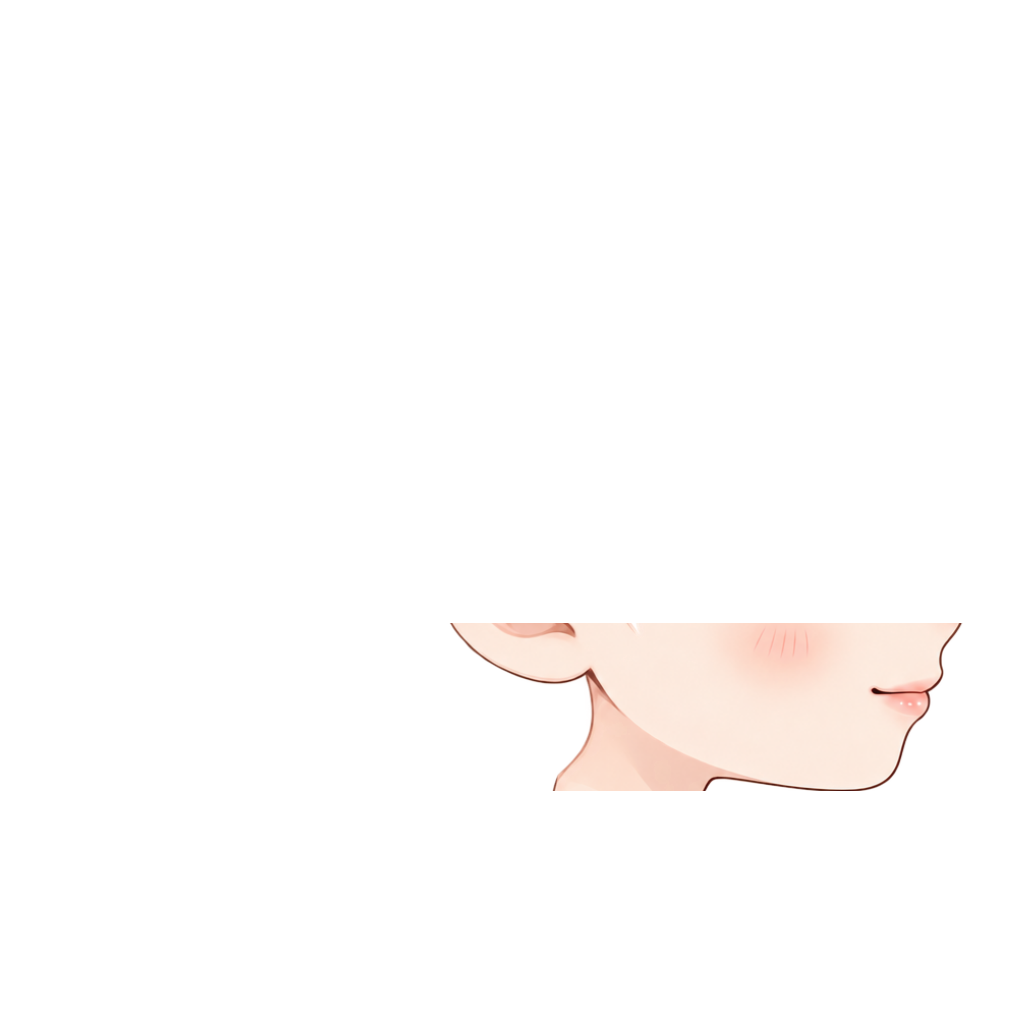
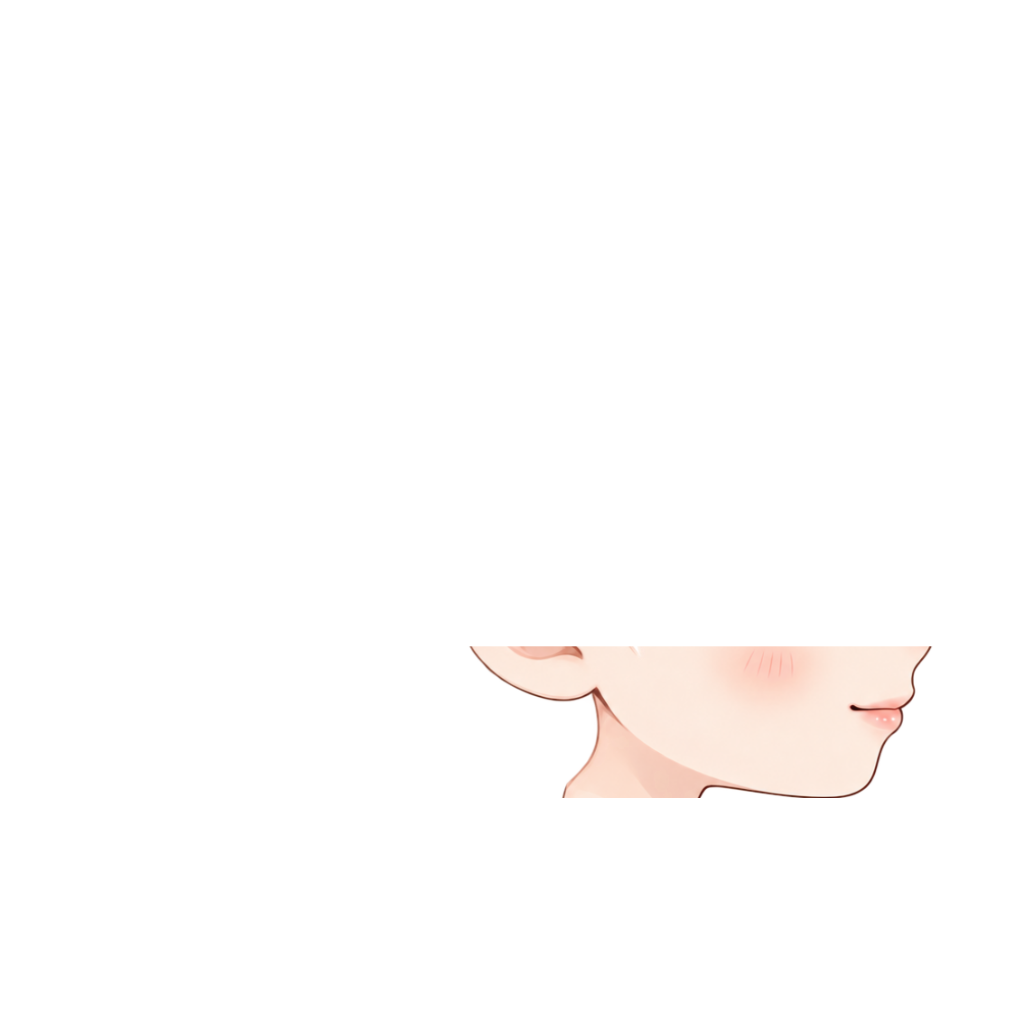
fix: 기본 여자 머리 그림을 줄여 화면에서 남자와 같은 얼굴 크기로 맞춘다 [S15P31A207-306]
여자 몸체는 머리 그림을 남자보다 약 10.8% 크게 그린다(화면 실측: 남자 0.372, 여자 0.412 px/캔버스px).
여자 머리 12장을 목 끝 기준으로 0.903배 줄이고, 생성 머리 목표(HeadTarget)와 얼굴 원 그림 배율을 그에 맞춘다.
측면 목 맞춤 구간(791~863)은 목 길이 72 전제를 지켜 그대로 둔다.

Changed region(s): [[0.4375, 0.5938, 0.9375, 0.7812]]

diff --git a/android/core/avatar/src/test/kotlin/com/a207/runkk/app/core/avatar/FemaleBuiltInFaceTest.kt b/android/core/avatar/src/test/kotlin/com/a207/runkk/app/core/avatar/FemaleBuiltInFaceTest.kt
@@ -1,6 +1,7 @@
 package com.a207.runkk.app.core.avatar
 
 import android.graphics.BitmapFactory
+import kotlin.math.abs
 import kotlin.test.assertEquals
 import kotlin.test.assertTrue
 import org.junit.Test
@@ -9,59 +10,84 @@ import org.robolectric.RobolectricTestRunner
 import org.robolectric.RuntimeEnvironment
 import org.robolectric.annotation.GraphicsMode
 
-/** S15P31A207-306: 기본 여자 얼굴은 남자 원본을 목 끝에 맞춰 평행 이동한다. */
+/**
+ * S15P31A207-306: 기본 여자 얼굴은 남자 얼굴 그림을 목 끝에 맞춰 옮긴 뒤 [SCALE]배로 줄인 것이다. 여자 몸체가 머리 그림을 남자보다
+ * 약 10.8% 크게 그리므로, 그림을 그만큼 줄여야 화면에서 남녀 얼굴 크기가 같다.
+ */
 @RunWith(RobolectricTestRunner::class)
 @GraphicsMode(GraphicsMode.Mode.NATIVE)
 class FemaleBuiltInFaceTest {
     @Test
-    fun `정면 얼굴과 눈과 볼은 같은 이동만 적용한다`() {
-        for (name in listOf("face", "eyes_open", "eyes_half", "eyes_closed", "front_fullness_1", "front_fullness_2")) {
-            assertTranslated(name, dx = 14, dy = -67, fillAbove = if (name == "face") 516 else 0)
+    fun `정면 눈과 볼은 남자 그림의 0점903배다`() {
+        for (name in listOf("eyes_open", "eyes_half", "eyes_closed", "front_fullness_1", "front_fullness_2")) {
+            assertScaled(name)
         }
     }
 
     @Test
-    fun `측면 얼굴과 눈과 볼도 목 중심을 맞춘 같은 이동만 적용한다`() {
-        for (name in listOf("side_face", "side_eyes", "side_fullness_1", "side_fullness_2")) {
-            assertTranslated(name, dx = 40, dy = -67, fillAbove = if (name == "side_face") 515 else 0)
+    fun `측면 눈과 볼도 같은 배율이다`() {
+        for (name in listOf("side_eyes", "side_fullness_1", "side_fullness_2")) {
+            assertScaled(name)
         }
+    }
+
+    @Test
+    fun `목 끝과 목 맞춤값은 몸체 자리 그대로다`() {
+        // 목 맞춤은 목 길이 72를 전제로 한다(SideNeckRegistrationTest). 그림을 줄여도 구간은 그대로 둔다.
         assertEquals(791f, SideNeckRegistration.FEMALE.startY)
         assertEquals(863f, SideNeckRegistration.FEMALE.endY)
         assertEquals(651f, SideNeckRegistration.FEMALE.centerX)
+        val front = bounds("female", "face")
+        val side = bounds("female", "side_face")
+        assertTrue(abs(front.bottom - 865) <= 3, "정면 목 끝 ${front.bottom}")
+        assertTrue(abs(side.bottom - 865) <= 3, "측면 목 끝 ${side.bottom}")
     }
 
-    private fun assertTranslated(name: String, dx: Int, dy: Int, fillAbove: Int) {
-        val male = pixels("male", name)
-        val female = pixels("female", name)
-        var differences = 0
-        var clipped = 0
-        for (y in 0 until 1024) {
-            for (x in 0 until 1024) {
-                val targetX = x + dx
-                val targetY = y + dy
-                val source = male[y * 1024 + x]
-                if (targetX !in 0 until 1024 || targetY !in 0 until 1024) {
-                    if (source ushr 24 > 0) clipped++
-                } else if (targetY >= fillAbove && source != female[targetY * 1024 + targetX]) {
-                    differences++
-                }
-            }
-        }
-        assertEquals(0, clipped, "$name 캔버스 밖 픽셀")
-        assertEquals(0, differences, "$name 평행 이동 외 변경 픽셀")
+    private fun assertScaled(name: String) {
+        val male = bounds("male", name)
+        val female = bounds("female", name)
+        val width = female.width.toFloat() / male.width
+        val height = female.height.toFloat() / male.height
+        assertTrue(abs(width - SCALE) < TOLERANCE, "$name 가로 배율 $width")
+        assertTrue(abs(height - SCALE) < TOLERANCE, "$name 세로 배율 $height")
     }
 
-    private fun pixels(gender: String, name: String): IntArray {
+    private class Bounds(val left: Int, val top: Int, val right: Int, val bottom: Int) {
+        val width get() = right - left + 1
+        val height get() = bottom - top + 1
+    }
+
+    /** 불투명도가 절반을 넘는 픽셀의 경계 상자. */
+    private fun bounds(gender: String, name: String): Bounds {
         val bitmap = RuntimeEnvironment.getApplication().assets.open("avatars/$gender/$name.png").use {
             checkNotNull(BitmapFactory.decodeStream(it))
         }
         try {
             assertEquals(1024, bitmap.width)
             assertEquals(1024, bitmap.height)
-            assertTrue(bitmap.hasAlpha())
-            return IntArray(1024 * 1024).also { bitmap.getPixels(it, 0, 1024, 0, 0, 1024, 1024) }
+            val pixels = IntArray(1024 * 1024).also { bitmap.getPixels(it, 0, 1024, 0, 0, 1024, 1024) }
+            var left = 1024
+            var top = 1024
+            var right = -1
+            var bottom = -1
+            for (index in pixels.indices) {
+                if (pixels[index] ushr 24 > 127) {
+                    val x = index % 1024
+                    val y = index / 1024
+                    if (x < left) left = x
+                    if (x > right) right = x
+                    if (y < top) top = y
+                    if (y > bottom) bottom = y
+                }
+            }
+            return Bounds(left, top, right, bottom)
         } finally {
             bitmap.recycle()
         }
+    }
+
+    private companion object {
+        const val SCALE = .903f
+        const val TOLERANCE = .02f
     }
 }

diff --git a/android/core/avatar/src/test/kotlin/com/a207/runkk/app/core/avatar/HeadPlacementTest.kt b/android/core/avatar/src/test/kotlin/com/a207/runkk/app/core/avatar/HeadPlacementTest.kt
@@ -12,9 +12,10 @@ import kotlin.test.assertTrue
 class HeadPlacementTest {
     @Test
     fun `여자 생성 머리 목표도 새 기본 머리의 정수리와 측면 턱에 맞춘다`() {
-        assertEquals(20f, HeadTarget.FEMALE_FRONT.crownY)
-        assertEquals(20f, HeadTarget.FEMALE_SIDE.crownY)
-        assertEquals(791f, HeadTarget.FEMALE_SIDE.chinY)
+        assertEquals(102f, HeadTarget.FEMALE_FRONT.crownY)
+        assertEquals(102f, HeadTarget.FEMALE_SIDE.crownY)
+        assertEquals(794f, HeadTarget.FEMALE_FRONT.chinY)
+        assertEquals(798f, HeadTarget.FEMALE_SIDE.chinY)
     }
 
     @Test

diff --git a/android/core/avatar/src/main/java/com/a207/runkk/app/core/avatar/HeadTarget.kt b/android/core/avatar/src/main/java/com/a207/runkk/app/core/avatar/HeadTarget.kt
@@ -5,9 +5,9 @@ package com.a207.runkk.app.core.avatar
  * 서버 분리·정합 오류를 이 값이나 파츠별 오프셋으로 덮지 않는다(온보딩 4절).
  */
 internal enum class HeadTarget(val centerX: Float, val chinY: Float, val crownY: Float) {
-    FEMALE_FRONT(534f, 787f, 20f),
+    FEMALE_FRONT(534f, 794f, 102f),
     MALE_FRONT(520f, 854f, 59f),
-    FEMALE_SIDE(651f, 791f, 20f),
+    FEMALE_SIDE(651f, 798f, 102f),
     MALE_SIDE(582f, 858f, 60f);
 
     companion object {

diff --git a/android/core/ui/tools/default-head/make_default_heads.py b/android/core/ui/tools/default-head/make_default_heads.py
@@ -27,7 +27,9 @@ CROWN_Y, CHIN_Y, CENTER_X = -0.05, 0.86, 0.5
 CROWN_MIN, CROWN_MAX = -0.05, 0.08
 NECK_END_RATIO = 0.97
 # 내장 머리의 턱·목 가운데 x(core/avatar HeadTarget 정면 값, 내장 머리가 그 자리에 맞춰져 있다).
-CHIN = {"male": (520, 854), "female": (534, 787)}
+CHIN = {"male": (520, 854), "female": (534, 794)}
+# 여자 내장 머리는 몸체가 크게 그리는 만큼(약 10.8%) 줄여 둔 그림이다(S15P31A207-306). 얼굴 원에서는 남자와 같은 얼굴 크기로 되돌린다.
+ASSET_SCALE = {"male": 1.0, "female": 0.903}
 
 
 def crown_of(hair: Image.Image) -> int:
@@ -61,7 +63,7 @@ def make(gender: str, in_circle: bool = True) -> Image.Image:
     center_x, chin = CHIN[gender]
     crown = crown_of(hair)
     reference_hair = hair if gender == "male" else Image.open(ASSETS / "male/hair.png").convert("RGBA")
-    scale = SIZE * (CHIN_Y - CROWN_Y) / (CHIN["male"][1] - crown_of(reference_hair))
+    scale = SIZE * (CHIN_Y - CROWN_Y) / (CHIN["male"][1] - crown_of(reference_hair)) / ASSET_SCALE[gender]
     dx = SIZE * CENTER_X - center_x * scale
     bottom = neck_bottom(face)
     if in_circle:
